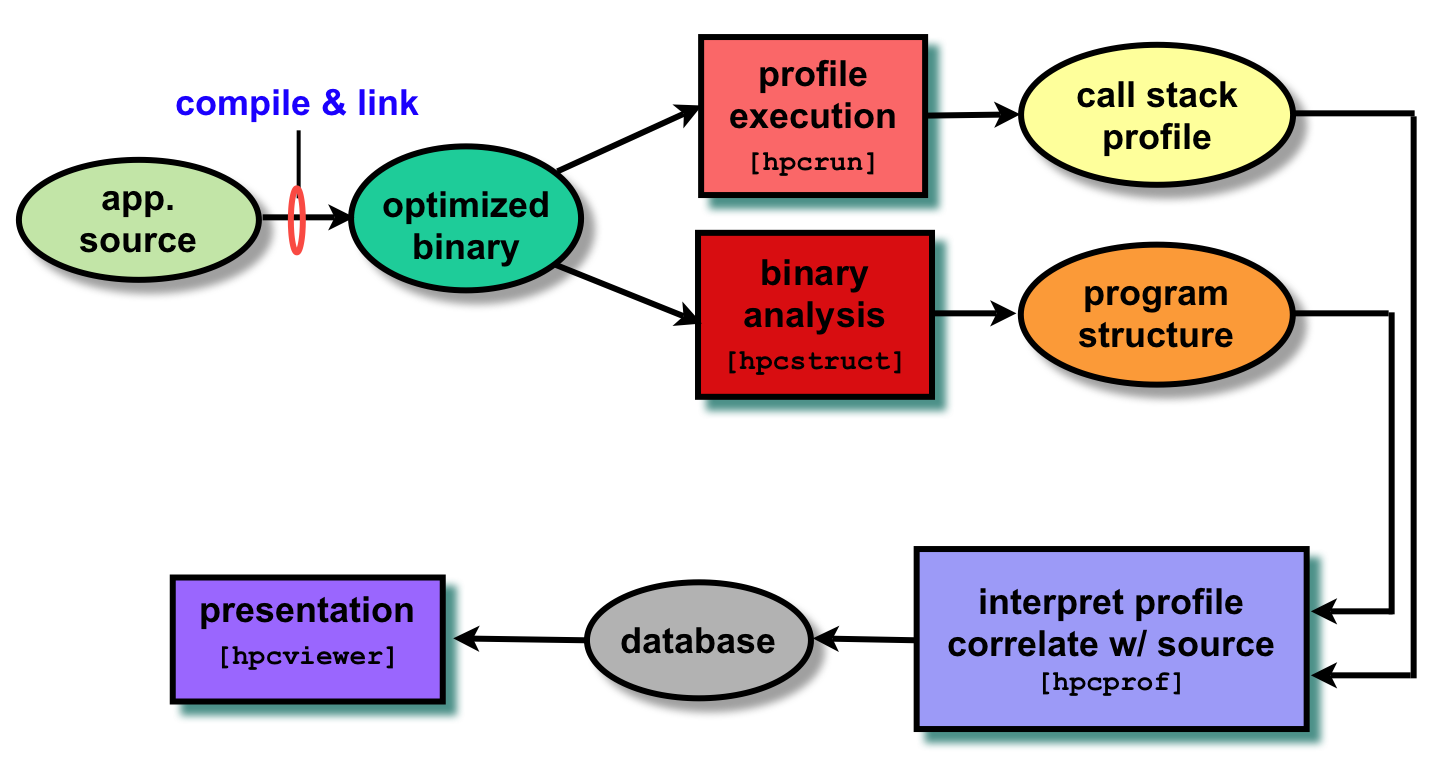
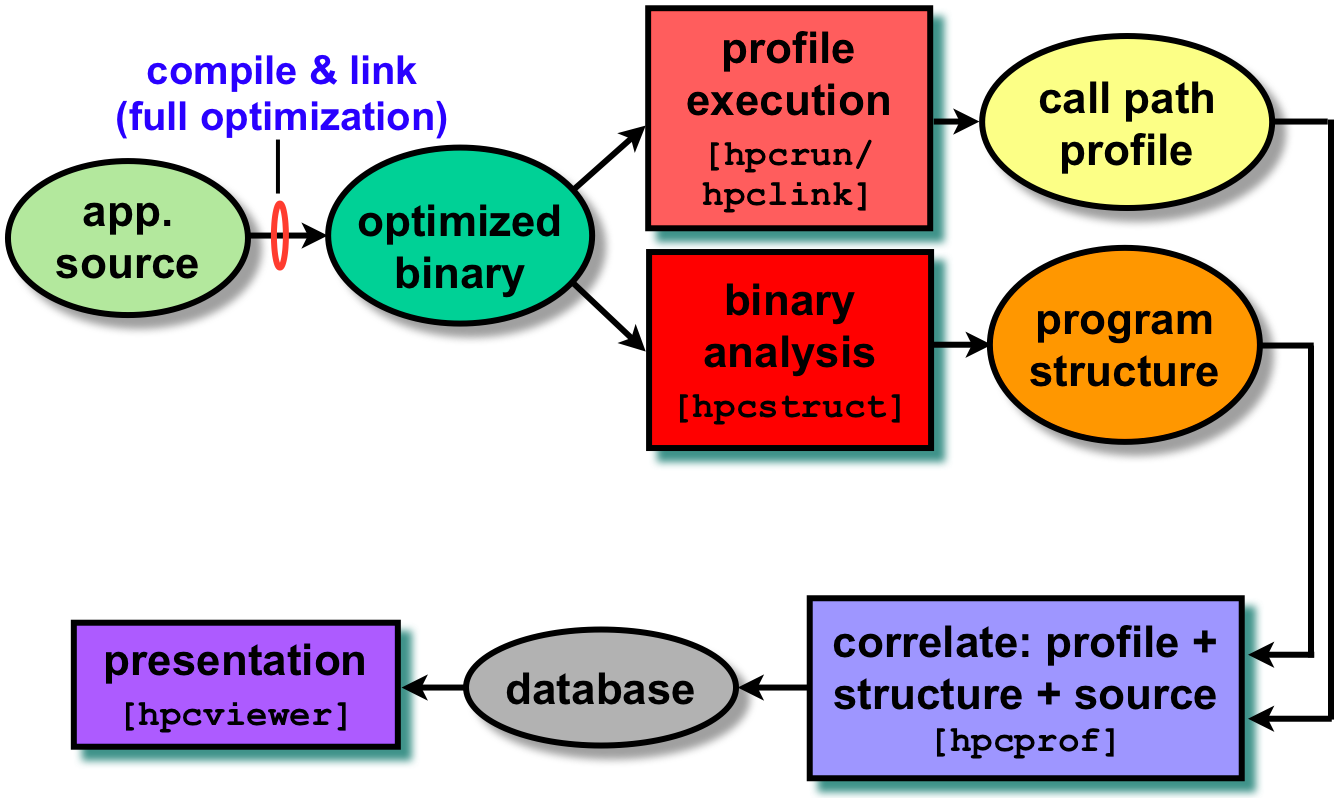
Revamp main page and overview.

diff --git a/doc/www/overview.html b/doc/www/overview.html
@@ -26,86 +26,39 @@
 <div id="main">
 
 
-<p>HPCToolkit consists of components for measuring the performance of fully-optimized executables generated by vendor compilers, analyzing application binaries to correlate measurements with program structure, and novel analysis techniques for pinpointing performance bottlenecks in parallel programs.
+<p>HPCToolkit is an integrated suite of tools for measurement and analysis of program performance on computers ranging from multicore desktop systems to the nation's largest supercomputers.
+HPCToolkit provides accurate measurements of a program's work, resource consumption, and inefficiency, correlates these metrics with the program's source code, works with multilingual, fully optimized binaries, has very low measurement overhead, and scales to large parallel systems.
+HPCToolkit's measurements provide support for analyzing a program execution cost, inefficiency, and scaling characteristics both within and across nodes of a parallel system.
+
+<p>HPCToolkit works by sampling an execution of a multithreaded and/or multiprocess program using hardware performance counters, unwinding thread call stacks, and attributing the metric value associated with a sample event in a thread to the calling context of the thread/process in which the event occurred.
+Sampling has several advantages over instrumentation for measuring program performance: it requires no modification of source code, it avoids potential blind spots (such as code available in only binary form), and it has lower overhead.
+HPCToolkit typically adds only 1% to 3% measurement overhead to an execution for reasonable sampling rates.
+Sampling using performance counters enables fine-grain measurement and attribution of detailed costs including metrics such as operation counts, pipeline stalls, cache misses, and inter-cache communication in multicore and multisocket configurations.
+Such detailed measurements are essential for understanding the performance characteristics of applications on modern multicore microprocessors that employ instruction-level parallelism, out-of-order execution, and complex memory hierarchies.
+HPCToolkit also supports computing derived metrics such as cycles per instruction, waste, and relative efficiency to provide insight into a program's shortcomings.
+
+<p>A unique capability of HPCToolkit is its nearly flawless ability to unwind a thread's call stack.
+Unwinding is often a difficult and error-prone task with highly optimized code.
+
+<p>HPCToolkit assembles performance measurements into a call path profile that associates the costs of each function call with its full calling context.
+In addition, HPCToolkit uses binary analysis to attribute program performance metrics with uniquely detailed precision -- full dynamic calling contexts augmented with information about call sites, source lines, loops and inlined code.
+Measurements can be analyzed in a variety of ways: top-down in a calling context tree, which associates costs with the full calling context in which they are incurred; bottom-up in a view that apportions costs associated with a function to each of the contexts in which the function is called; and in a flat view that aggregates all costs associated with a function independent of calling context.
+This multiplicity of perspectives is essential to understanding a program's performance for tuning under various circumstances.
+
+<p>By working at the machine-code level, HPCToolkit accurately measures and attributes costs in executions of multilingual programs, even if they are linked with libraries available only in binary form. HPCToolkit supports performance analysis of fully optimized code -- the only form of a program worth measuring; it even measures and attributes performance metrics to shared libraries that are dynamically loaded at run time. The low overhead of HPCToolkit's sampling-based measurement is particularly important for parallel programs because measurement overhead can distort program behavior.
+
+<p>HPCToolkit is also especially good at pinpointing scaling losses in parallel codes, both within multicore nodes and across the nodes in a parallel system.
+Using differential analysis of call path profiles collected on different numbers of threads or processes enables one to quantify scalability losses and pinpoint their causes to individual lines of code executed in particular calling contexts.
+We have used this technique to quantify scaling losses in leading science applications (e.g., FLASH, MILC, and PFLOTRAN) across thousands of processor cores on Cray XT and IBM Blue Gene/P systems and associate them with individual lines of source code in full calling context, as well as to quantify scaling losses in science applications (e.g., S3D) within nodes at the loop nest level due to competition for memory bandwidth in multicore processors.
+
+<p>HPCToolkit is deployed on several DOE leadership class machines, including Blue Gene/P (Intrepid) at Argonne's Leadership Computing Facility and Cray XT systems at ORNL and NERSC (Jaguar, JaguarPF, and Franklin).
+It is also deployed on the NSF TeraGrid system at TACC (Ranger).
 
 
-<h2>Motivating Principles</h2>
-
-<p>We designed HPCToolkit to:
-
-<ul>
-
-<li> <i>Work at binary level for language independence.</i>
-This enables HPCToolkit to support measurement and analysis of multi-lingual codes with external binary-only libraries.
-
-<li> <i>Profile rather than adding code instrumentation.</i>
-Sample-based profiling is less intrusive than code instrumentation and requires only very modest data volume.
-
-<li> <i>Collect and correlate multiple performance metrics.</i>
-Performance problems typically cannot be diagnosed with only one species of event.
-
-<li> <i>Compute derived metrics to aid analysis.</i>
-Synthetic metrics, such as memory bandwidth consumed, often provide insight for optimization.
-
-<li> <i>Attribute costs very precisely.</i>
-HPCToolkit is unique in its ability to associate measurements with dynamic calling context, loops, and inlined code.
-
-</ul>
-
-<h2>Methodological Overview</h2>
-
-
-<p>From these principles we have devised a general methodology consisting of the workflow depicted in the adjacent figure.
-The workflow is organized around four principal capabilities:
-
-<table>
-<tr>
-
-<td>
-<ul>
-  <li> <i>measurement</i> of performance metrics while an application executes,
-  <li> <i>analysis</i> of application binaries to recover program structure,
-  <li> <i>correlation</i> of dynamic performance metrics with source code structure, and
-  <li> <i>presentation</i> of performance metrics and associated source code.
-</ul>
-
-<p>First, one compiles and links one's application for a production run, using <i>full</i> optimization.
-Second, one launches an application with HPCToolkit's measurement tool, <span class=hpctool>hpcrun</span>, which uses statistical sampling to collect a performance profile.
-Third, one invokes <span class=hpctool>hpcstruct</span>, a tool for analyzing the application binary to recover information about files, functions, loops, and inlined code.
-(For the most detailed attribution of application performance data using HPCToolkit, one should ensure that the compiler includes line map information in the object code it generates.
-Since compilers often provide line map  information for fully-optimized code, this requirement need not require a special build process.)
-Fourth, one uses <span class=hpctool>hpcprof</span> to combine information about an application's structure with dynamic performance measurements to produce a performance database.
-Finally, one explores a performance database with an interactive viewer called <span class=hpctool>hpcviewer</span>.
-
-</td>
-
-<td>
-<img width=500 src="fig/hpctoolkit-workflow.png">
-</td>
-
-</tr>
-</table>
-
-
-<h3>Measurement</h3>
-<p><span class=hpctool>hpcrun</span> uses event-based sampling to measure and analyze program performance.
-Sample events correspond to periodic interrupts induced by an interval timer or overflow of hardware performance counters measuring events such as cycles, instructions executed, cache misses, and memory bus transactions.
-During an interrupt, <span class=hpctool>hpcrun</span> attributes samples to calling contexts to form <i>call path profiles</i>.
-To accurately measure code from "black box" vendor compilers, <span class=hpctool>hpcrun</span> uses on-the-fly binary analysis to enable stack-unwinding of fully optimized code <i>without compiler support</i>, even code that lacks frame pointers and uses optimizations such as tail calls.
-<span class=hpctool>hpcrun</span> stores sample counts and their associated calling contexts in a <i>calling context tree</i> (CCT).
-</p>
-
-<h3>Analysis and Correlation</h3>
-<p>To put measurements to use, HPCToolkit's correlation tool, <span class=hpctool>hpcprof</span>, correlates them with source code abstractions.
-To associate sample-based performance measurements of fully optimized binaries with source code structure, HPCToolkit uses binary analysis to recover information about procedures, loop nests, and inlined code.
-For each procedure in the executable, the <span class=hpctool>hpcstruct</span> binary analyzer parses its machine code, identify branch instructions, build a control flow graph, and then uses interval analysis to identify loop nests within the control flow.
-<span class=hpctool>hpcstruct</span> then combines this information with line map information that is routinely recorded by vendor compilers in a way that enables it to associate samples associated with machine instructions to procedures and loops, even in the presence of optimizations such as inlining and loop transformations such as fusion, and compiler-generated loops from scalarization of Fortran 90 array operations or array copies induced by Fortran 90's calling conventions.
-</p>
-
-<h3>Presentation.</h3>
-<p>HPCToolkit's visualization tool, <span class=hpctool>hpcviewer</span>, presents performance metrics correlated to program structure and mapped to source code.
-Some screen shots are shown below.
-<br><img src="fig/hpcviewer-annotated-screenshot.jpg" alt="hpcviewer screenshot">
+<!--
+<p>Some screen shots are shown below.
+<img src="fig/hpcviewer-annotated-screenshot.jpg" alt="hpcviewer screenshot">
+-->
 
 <!-- ********************************************************************** -->
 

diff --git a/doc/www/index.html b/doc/www/index.html
@@ -26,20 +26,37 @@
 
 <div id="main">
 
-<p>HPCToolkit is an open-source suite of multi-platform tools for profile-based performance analysis of applications.   The figure below provides an overview of the toolkit components and their relationships.
+<p>HPCToolkit is an integrated suite of tools for measurement and analysis of program performance on computers ranging from multicore desktop systems to the nation's largest supercomputers.
+HPCToolkit provides accurate measurements of a program's work, resource consumption, and inefficiency, correlates these metrics with the program's source code, works with multilingual, fully optimized binaries, has very low measurement overhead, and scales to large parallel systems.
+HPCToolkit's measurements provide support for analyzing a program execution cost, inefficiency, and scaling characteristics both within and across nodes of a parallel system.
+
+<p>The figure below provides an overview of HPCToolkit's primary components and their relationships.
 
 <table>
 <tr>
 
 <td>
 <ul>
-<li> <span class="hpctool">hpcrun / hpcrun-flat</span>: Measurement tools for profiling executions of unmodified fully-optimized application using statistical sampling of the system timer or hardware performance counters.  The former collects call path profiles, while the latter collects flat profiles.
+<li> <span class="hpctool">hpcrun</span>: HPCToolkit is based on collecting both highly accurate and highly precise calling-context-sensitive performance measurements for unmodified fully optimized applications.
+To collect call path profiles for very low overhead (1-3%), hpcrun uses asynchronous sampling of system timers and performance monitoring unit events.
+</li>
+<br>
 
-<li> <span class="hpctool">hpcstruct</span>: A binary analysis tool for recovering the static program structure of <i>fully optimized</i> object code.  In particular, hpcstruct recovers source code procedures and loop nests, detects inlining, and associates procedures and loops with object code.</li>
 
-<li> <span class="hpctool">hpcprof / hpcprof-flat / hpcproftt</span>: Profile interpretation and correlation tools.  Specifically, these tools correlate call path and flat profile metrics with program structure to produce a performance database.</li>
+<li> <span class="hpctool">hpcstruct</span>: To associate calling-context-sensitive measurements with source code structure, hpcstruct recovers the static program structure of a <i>fully optimized</i> application binary.
+In particular, hpcstruct recovers source code procedures and loop nests, detects inlining, and associates procedures and loops with object code.
+</li>
+<br>
 
-<li> <span class="hpctool">hpcviewer</span>: Sophisticated GUI for exploring databases consisting of performance information correlated with program source.</li>
+<li> <span class="hpctool">hpcprof</span>: To show static program structure -- especially a loop nest -- in its full calling context, hpcprof overlays call path profiles with program structure and correlates the result with source code.
+It generates a performance database.
+</li>
+<br>
+
+<li> <span class="hpctool">hpcviewer</span>: hpcviewer interactively presents a performance database in three complementary views.
+It is specifically designed to facilitate rapid top-down analysis using metrics that highlight program inefficiency rather than program hot spots.
+</li>
+
 </ul>
 </td>
 
@@ -51,10 +68,11 @@
 </table>
 
 <p>
-Supported platforms: x86-64/x86-Linux, IA64-Linux, POWER-Linux.  (MIPS-Linux)
-
-<p>
-Including: Cray XT (Opteron + Compute Node Linux), IBM Blue Gene/P.  (SiCortex)
+Supported platforms:
+<ul>
+  <li>Linux-x86-64/x86, Linux-IA64 (testing), Linux-POWER (testing).
+  <li>Including: Cray XT, IBM Blue Gene/P.
+</ul>
 
 <p>HPCToolkit is open-source software released with a BSD-like <a href="README.License">license</a>.
 

diff --git a/doc/www/software.html b/doc/www/software.html
@@ -26,7 +26,7 @@
 
 <div id="main">
 
-<h2><a href="software-build.html">Prerequisites &amp; Instructions</a></h2>
+<h2><a href="software-instructions.html">Prerequisites &amp; Instructions</a></h2>
 
 <h2>Releases &amp; Snapshots </h2>
 
@@ -57,7 +57,7 @@
 </ul>
 
 
-<h2>Subversion repository</h2>
+<h2>Subversion Repository</h2>
 
 <ul>
 <li><p>Moral equivalent of a release/snapshot tarball:
@@ -104,7 +104,7 @@
 
 </ul>
 
-<h2><a href="https://outreach.scidac.gov/tracker/?group_id=87">Bug reports</a></h2>
+<h2><a href="https://outreach.scidac.gov/tracker/?group_id=87">Bug Reports</a></h2>
 
 
 <!--

diff --git a/doc/www/style/footer-hpctoolkit.js b/doc/www/style/footer-hpctoolkit.js
@@ -17,8 +17,8 @@ document.write('  &copy;2000-2010 <a title="Rice University" href="http://www.ri
 document.write('</td>');
 document.write('<td align="right">');
 document.write('  [<a href="info-contact.html">Contact Us</a> |');
-document.write('  <a href="info-acks.html">Acknowledgments</a> |');
 document.write('  <a href="info-people.html">People</a> |');
+document.write('  <a href="info-acks.html">Acknowledgments</a> |');
 document.write('  <a title="RiceCS" href="http://www.cs.rice.edu">Rice Computer Science</a> ]');
 document.write('</td>');
 document.write('</tr>');

diff --git a/doc/www/info-people.html b/doc/www/info-people.html
@@ -28,7 +28,10 @@
 			<h2>Project Lead</h2>
 <ul>
 <li>
-<a href="http://www.cs.rice.edu/~johnmc">John Mellor-Crummey</a></li> 
+<a href="http://www.cs.rice.edu/~johnmc">John Mellor-Crummey</a>
+<br>
+Department of Computer Science - MS 132, Rice University, P.O. Box 1892, Houston, TX 77251-1892
+</li>
 </ul>
 
 <h2>Project Team</h2>
@@ -48,10 +51,6 @@
 <li>Monika Mevenkamp
 <li>Xuesong Yuan
 </ul>
-
-<p>
-Department of Computer Science - MS 132, Rice University, P.O. Box 1892, Houston, TX 77251-1892
-
 
 <p class="lastupdated">Page last updated: 2010/03/04</p>
 

diff --git a/doc/www/software-instructions.html b/doc/www/software-instructions.html
@@ -32,7 +32,7 @@
 <ul>
   <li><a href="#prerequisites">Prerequisites</a>
 
-  <li><a href="#downloading">Downloading source code</a>
+  <li><a href="#downloading">Downloading Source Code</a>
 
   <li><a href="#building_installing">Building and Installing</a>
 </ul>
@@ -139,7 +139,7 @@ succssfully used versions 5.6.x, 5.8.x.
 
 <a name="downloading"></a>
 
-<h2>Downloading source code</h2>
+<h2>Downloading Source Code</h2>
 <p><i>[<a href="#toc">Contents</a>]</i>
 
 <p>
